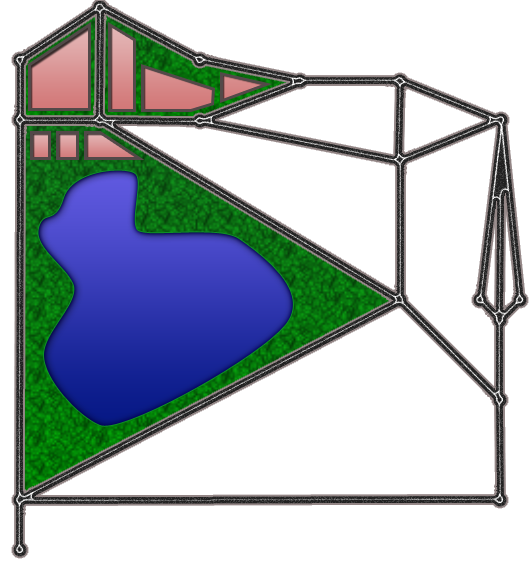
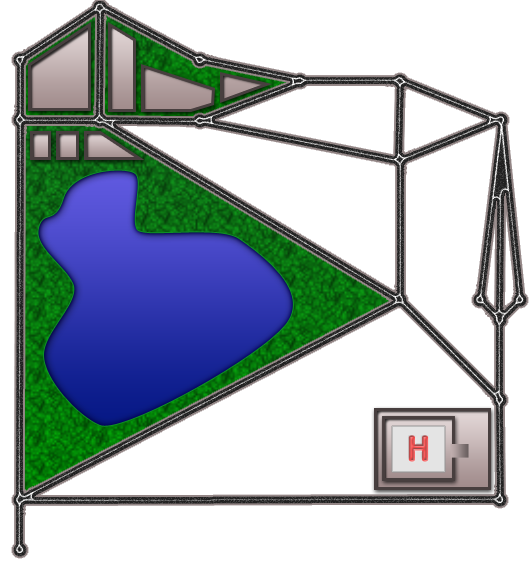
WORKING VERSION (minor revision)
* (minor) Cleaned the imports (improved performance at startup)
* (minor) Added error handlers/removed now useless prints and comments
* (minor) Fixed a small bug in node.update (r95)
* (minor) Changed delta_t to artificially speed up the simulation
* (very minor) Changed a bit the track picture

There is a bug since r95: cars cannot join a node anymore in some situations. I can't figure out where the bug lies.

diff --git a/node.py b/node.py
@@ -28,7 +28,7 @@ class Node:
         self.position       = Vector(new_x, new_y)
         self.incoming_roads = []
         self.leaving_roads  = []
-        self.max_cars = 5
+        self.max_cars       = 5
         self.cars           = []
         self.slots_cars     = {}
         self.slots_roads    = [None for i in range(self.max_cars)]
@@ -37,7 +37,7 @@ class Node:
         self.time           = 0
         self.rotation_speed = 10
 
-    def add_me(self, road): #cet ajout doit se faire de facon géométrique ?
+    def add_me(self, road):
         """
         Connecte, lors d'une initialisation, la route à un slot sur le carrefour.
         """
@@ -46,13 +46,10 @@ class Node:
             if not (road in self.slots_roads) and not (self.slots_roads[rand]): #l'emplacement est libre
                 self.slots_roads[rand] = road
                 self.slots_cars[rand] = None
-
-                print "attribution d'un slot à une route",id(self),rand,id(road)
                 break
             if i == 99: #on admet que tout est plein mais il faut quand meme ajouter cette route, tant pis, cest qu'on a mal concu le self.max_cars
                 self.max_cars += 1
                 self.slots_cars[self.max_cars] = None
-                print "le self.max_cars est trop petit, mais comme le programmeur est malin, on n'arrete pas le programme pour autant :P "
                 self.slots_roads.append(road)
                 self.slots_cars[self.max_cars] = None 
             
@@ -64,19 +61,16 @@ class Node:
             id_slot = self.slots_roads.index(old_location)
             
             if not self.slots_cars.has_key(id_slot):
-                print "Euh, c'est pas normal, y'a une voiture qui vient d'une route pas référencée !"
                 self.slots_cars[id_slot] = car
             else:
                 if self.slots_cars[id_slot] is None:
-                    self.slots_cars[id_slot] = car #on suppose bien entendu que celui ci est vide grâçe à la ligne  166 de car.py (r85)
+                    self.slots_cars[id_slot] = car #on suppose bien entendu que celui ci est vide
                 else:
-                    print id_slot
-                    print self.slots_cars
                     raise Exception("ERROR (in node.glue_to_slot()): slots_cars[id_slot] is not empty!")
         else:
             raise Exception("ERROR (in node.glue_to_slot()): Je viens d'un endroit inconnu !")
     
-    def am_i_at_the_beginning(self,road):
+    def is_begin_node(self,road):
         return id(road.begin) == id(self)
 
     def _update_gate(self, road, waiting_cars):
@@ -86,9 +80,9 @@ class Node:
             waiting_cars (int) : the *total* number or cars waiting for the node
         """
 
-        if road.total_waiting_cars > 8 and self.am_i_at_the_beginning(road): # priorité  1- pas trop de queue pour partir
+        if road.total_waiting_cars > 8 and self.is_begin_node(road): # priorité  1- pas trop de queue pour partir
             self.set_gate(road, True)
-        if road.total_waiting_cars > 8 and (not self.am_i_at_the_beginning(road)): # priorité  1- pas trop de queue pour rentrer sur le carrefour
+        if road.total_waiting_cars > 8 and (not self.is_begin_node(road)): # priorité  1- pas trop de queue pour rentrer sur le carrefour
             self.set_gate(road, True)
         
         if road.last_gate_update(LEAVING_GATE) > 10000 and not road.gates[LEAVING_GATE] and road.total_waiting_cars > 0: # priorité 1- pas trop d'attente
@@ -123,8 +117,6 @@ class Node:
         
         if car_slot is None:
             #The car wasn't found!
-            print car
-            print self.slots_cars
             raise Exception("ERROR (in node.update_car()) : a car has no car_slot!")
         
         if self.slots_roads[car_slot] in self.leaving_roads or self.slots_roads[car_slot] in self.incoming_roads:            
@@ -136,39 +128,29 @@ class Node:
         else:
             # There is an issue ; either the slot is None, or it points to the wrong thing
             if self.slots_roads[car_slot] is not None:
-                print self.slots_roads[car_slot]
-                print self.incoming_roads
-                print self.leaving_roads
                 raise Exception("ERROR: slots_roads[car_slot] points to a road that doesn't exist!")
-
-            elif (self.leaving_roads[next_way].is_free):
-                print car, car_slot, id(self.leaving_roads[next_way]), id(self.slots_roads[car_slot])
-                pass
 
     def update(self):
         """
         Updates the node: rotate the cars, dispatch them...
         """
-        # TODO :
-        #       · (N.U2) Implement cars' rotation on the node before calling update_car
-        self.time = (self.time + 1) % self.rotation_speed #on m'appelle à chaque tour
-        if self.time == 0: #Rotation du carrefour
-            def list_rotate(list): return [list[-1]] + list[0:len(list)-1] #implémante la rotation d'une liste # à déplacer
-            self.slots_roads =  list_rotate(self.slots_roads)
-        self.update_gates() # first, update gates, unless it should be unnecessary
+
+        self.time = (self.time + 1) % self.rotation_speed
         
-        if self.spawning and len(self.leaving_roads): # We are a "spawn node" : let's add a car at periodic rates
-            if time.get_ticks() - self.spawn_timer > SPAWN_TIME:
-                self.spawn_timer = time.get_ticks()
-                
-                chosen_road = self.leaving_roads[randint(0, len(self.leaving_roads) - 1)]
-                if chosen_road.is_free:
-                    new_car = init.new_car(chosen_road)
+        if self.time == 0: #Rotation du carrefour
+            self.slots_roads = init.shift_list(self.slots_roads)
+            
+        self.update_gates()
+        
+        if self.spawning and len(self.leaving_roads) and (time.get_ticks() - self.spawn_timer > SPAWN_TIME): # We are a "spawn node" : let's add a car at periodic rates
+            self.spawn_timer = time.get_ticks()
+            
+            chosen_road = self.leaving_roads[randint(0, len(self.leaving_roads) - 1)]
+            if chosen_road.is_free:
+                new_car = init.new_car(chosen_road)
 
-        for slot,car in self.slots_cars.items():
-
+        for car in self.cars:
             self.update_car(car)
-
     
     def set_gate(self, road, state):
         """
@@ -193,7 +175,6 @@ class Node:
         """
         Returns whether there is no place left on the node
         """
-        
         return (len(self.cars) >= self.max_cars)
 
     @property

diff --git a/interface.py b/interface.py
@@ -7,16 +7,8 @@ Description :   Manages the displays and main loop.
 
 import init     # ./init.py
 import pygame   # http://www.pygame.org
-import sys      # standard python library
-import math     # standard python library
 
-#   Settings
-
-#screen       # Screen object - Objet écran
-#is_running   # Indicates whether the simulation is running - Indique si la simulation tourne
-#debug        # Indicates whether debugging messages are displayed - Indique si les messages de débogage sont affichés
-
-screen = pygame.display.set_mode(init.RESOLUTION)   # Sets drawing surface - Met en place la surface de dessin
+screen = pygame.display.set_mode(init.RESOLUTION)
 debug  = True
 
 def draw_node(node):
@@ -28,7 +20,7 @@ def draw_node(node):
         node (Node) : le carrefour sus-cité.
     """
     # TODO :
-    #       · (DN1) draw the cars on the node, or alter the node drawing procedure to show there are cars, whatever
+    #       · (DN1) draw the cars on the node
     
     pygame.draw.circle(screen, init.NODE_COLOR, node.position.ceil().get_tuple(), init.NODE_WIDTH)
     
@@ -57,12 +49,8 @@ def draw_car(car):
     
     length_covered = float(int(car.position)) / float(int(car.location.length))
     
-    # EXPERIMENTAL: draw the cars at a scale consistent with the road
-    #scale_factor = car.location.length / math.sqrt((xa-xd)**2 + (ya-yd)**2)
-    #scale_factor = 1
-    
-    # Relative size of the car
-    #(r_width, r_length) = (car.width * scale_factor, car.length * scale_factor)
+    # Get them once
+    (r_width, r_length) = (car.width, car.length)
 
     # Coordinates for the center
     center_position = d_position + direction * length_covered
@@ -71,10 +59,10 @@ def draw_car(car):
     parallel   = car.location.parallel
     orthogonal = car.location.orthogonal
     
-    position1 = center_position - parallel * car.length/2 - orthogonal * car.width/2
-    position2 = center_position + parallel * car.length/2 - orthogonal * car.width/2
-    position3 = center_position + parallel * car.length/2 + orthogonal * car.width/2
-    position4 = center_position - parallel * car.length/2 + orthogonal * car.width/2
+    position1 = center_position - parallel * r_length/2 - orthogonal * r_width/2
+    position2 = center_position + parallel * r_length/2 - orthogonal * r_width/2
+    position3 = center_position + parallel * r_length/2 + orthogonal * r_width/2
+    position4 = center_position - parallel * r_length/2 + orthogonal * r_width/2
     
     # Change the color in case the car is waiting    
     color = car.color
@@ -96,7 +84,7 @@ def draw_text(x = screen.get_rect().centerx, y = screen.get_rect().centery, mess
     """
     if not pygame.font:
         # The (optional) pygame.font module is not supported, we cannot draw text
-        print "ERROR : the pygame.font module is not supported, cannot draw text."
+        raise Exception("ERROR : the pygame.font module is not supported, cannot draw text.")
     else:
         if not font:
             # We use a default font if none is provided
@@ -135,10 +123,11 @@ def draw_traffic_light(position, road, gate):
     """
     
     TF_RADIUS = 2
-    state = road.gates[gate]
+    width     = 0
+    state     = road.gates[gate]
     
     start_position  = position + road.orthogonal * 4 - road.parallel * 8
-    d_position      = -road.parallel * TF_RADIUS*2
+    d_position      = -road.parallel * TF_RADIUS * 2
     
     for i in range(3):
         if (state) and (i == 0):
@@ -166,12 +155,8 @@ def draw_road(road):
     (start_position, end_position) = (road.begin.position.ceil(), road.end.position.ceil())
    
     # This is not perfect… but it's ok for now I guess -- Sharayanan
-    #draw_traffic_light(x_start + 4, y_start + 4, road.gates[0])
     draw_traffic_light(end_position, road, 1)
    
-    # EXPERIMENTAL: color the road from green (empty) to red (full)
-    # Model : color key proportional to traffic density (N_cars/L_road)
-    
     color = init.GREEN
     key = 0
     if road.cars and init.DISPLAY_DENSITY:
@@ -197,8 +182,13 @@ def draw_scene():
     Draws the complete scene on the screen.
     Dessine la scène entière à l'écran.
     """  
-    screen.fill(init.BLACK)
-    
+    try:
+        screen.fill(init.BLACK)
+    except pygame.error, exc:
+        # Avoid errors during unloading
+        exit()
+        
+    # EXPERIMENTAL
     if init.track.picture:
         screen.blit(init.track.picture, (0,0))
     
@@ -215,9 +205,6 @@ def halt():
     Closes properly the simulation.
     Quitte correctement la simulation.
     """
-    # TODO :
-    #       · (H1) try to avoid "pygame.error: display Surface quit" on exit, by exiting the main loop first
-    
     is_running = False
     pygame.quit()
   
@@ -284,7 +271,7 @@ if __name__ == "__main__":
     #   please do not shout everywhere, i agree on your point, but this particular function may remain, i think -kamaradclimber
     # Please don't *shout*, this is not a function, and this is required here -- Sharayanan
     pygame.init()
-    pygame.display.set_caption("Thereisnorush (unstable)")
+    pygame.display.set_caption("Thereisnorush (unstable) - r" + str(init.REVISION_NUMBER))
     
     # Main loop
     main_loop()

diff --git a/init.py b/init.py
@@ -10,7 +10,7 @@ except NameError:
     INIT_FILE = True
     
     #   Useful constants
-    delta_t = 0.01
+    delta_t = 0.1
     
     BLACK       = (  0,   0,   0)
     RED         = (255,   0,   0)
@@ -30,17 +30,22 @@ except NameError:
     NODE_COLOR          = RED
     NODE_RADIUS_DEFAULT = 10
 
-    ROAD_COLOR  = WHITE 
+    ROAD_COLOR      = WHITE 
     
     DISPLAY_DENSITY = False # You may de-activate per-density coloring (+ fps)
-
-    from os     import getcwd   # standard python library, ne pas tout prendre, c'est plus propre :-)
-    from track  import Track
-    from track  import Track_Parser
-    from car    import Car 
-    from road   import Road
-    from node   import Node
     
+    REVISION_NUMBER = 97
+
+    try:
+        from os     import getcwd
+        from track  import Track
+        from track  import Track_Parser
+        from car    import Car 
+        from road   import Road
+        from node   import Node
+    except:
+        pass
+        
     #   TESTING ZONE
     
     def add_demo_car(road_number, position):
@@ -102,9 +107,15 @@ except NameError:
             return candidates[0]
         else:
             return None 
+            
+    def shift_list(list):
+        """
+        Effects a shift on a list 
+        """
+        return [list[-1]] + list[0:len(list)-1]
     
     if (__name__ == '__main__'):
-        print "You should run interface.py instead of this file !"
+        raise Exception("You should run interface.py instead of this file !")
     else:
         track = Track()
         load_demo_track()

diff --git a/track.py b/track.py
@@ -58,8 +58,11 @@ class Track_Parser:
             raise Exception("%s cannot be loaded (current directory is : %s)" % (file_name, getcwd())) 
             
         if len(file_picture) > 0:
-            import pygame
-            self.track.picture = pygame.image.load(file_picture)
+            from pygame import image 
+            try:
+                self.track.picture = image.load(file_picture)
+            except IOError:
+                raise Exception("%s cannot be loaded (current directory is : %s)" % (file_picture, getcwd()))                 
         
         for line in file_data:
             line = line.strip()

diff --git a/car.py b/car.py
@@ -4,7 +4,7 @@ File        :   car.py
 Description :   defines the class "Car"
 """
 
-delta_t = 0.01
+delta_t = 0.1
 
 import init
 from random import randint
@@ -44,7 +44,6 @@ class Car:
         if isinstance(new_location, Road):
             self.location.cars.insert(0, self)
         else:
-            print new_location
             raise ValueError('new_location should be a Road')
         
         self.generate_path()

diff --git a/road.py b/road.py
@@ -5,7 +5,6 @@ File        :   road.py
 Description :   defines the class "Road"
 """
 
-import init
 from pygame import time
 from math   import sqrt
 
